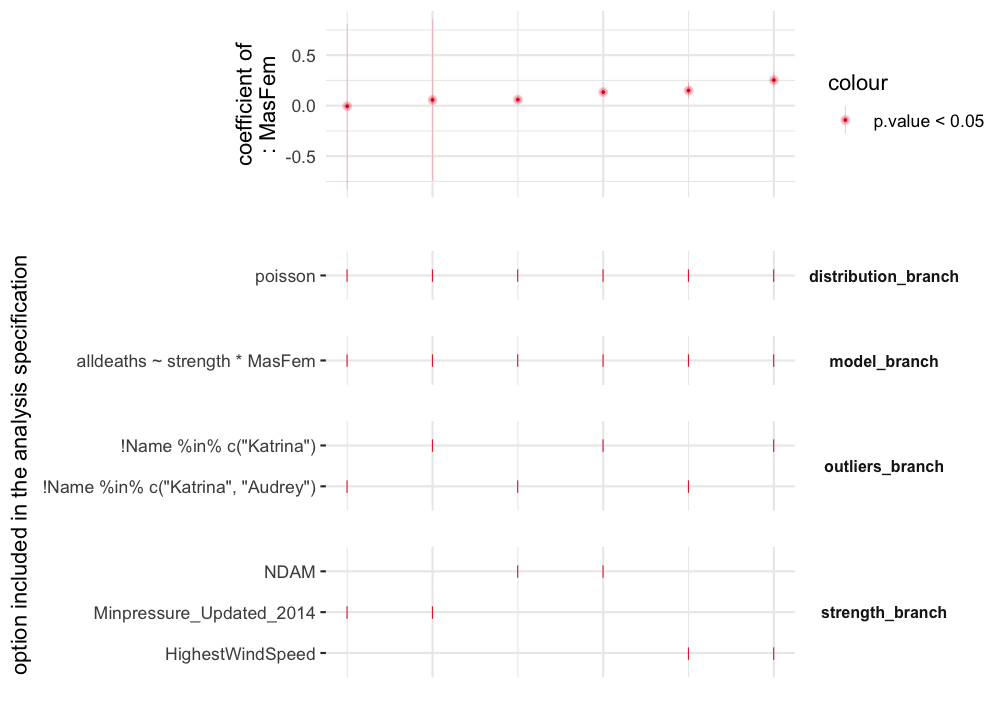
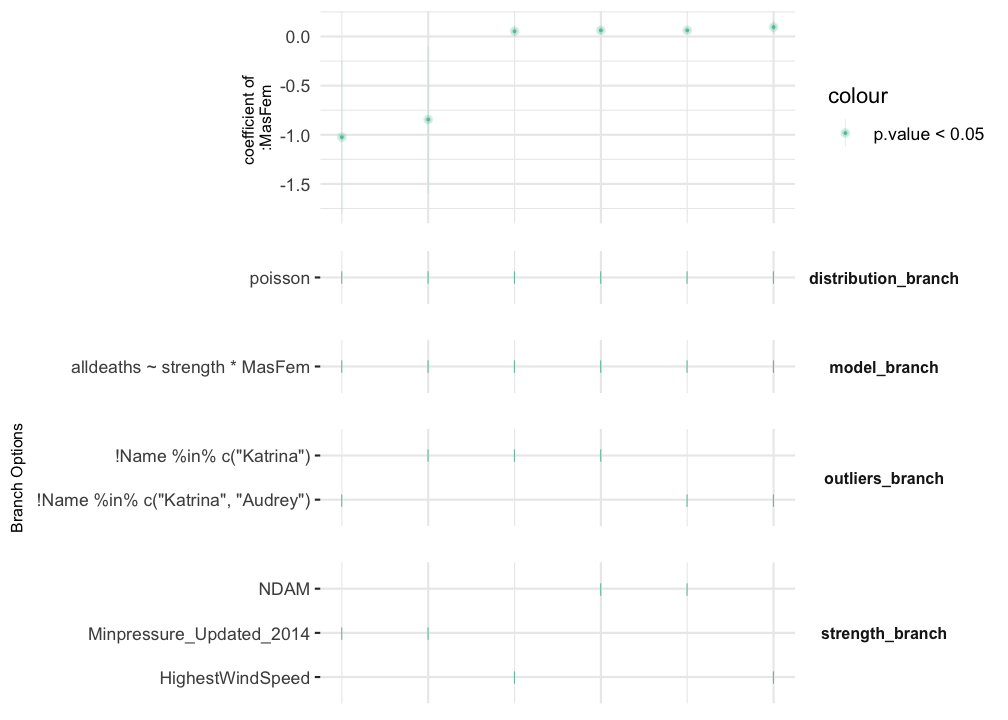
update readme, change default spec curve opacity

diff --git a/README.md b/README.md
@@ -6,8 +6,7 @@
 <!-- badges: start -->
 
 [![R-CMD-check](https://github.com/mverseanalysis/mverse/workflows/R-CMD-check/badge.svg)](https://github.com/mverseanalysis/mverse/actions)
-[![Codecov test
-coverage](https://codecov.io/gh/mverseanalysis/mverse/branch/master/graph/badge.svg)](https://app.codecov.io/gh/mverseanalysis/mverse?branch=master)
+<!-- [![Codecov test coverage](https://codecov.io/gh/mverseanalysis/mverse/branch/master/graph/badge.svg)](https://app.codecov.io/gh/mverseanalysis/mverse?branch=master) -->
 <!-- badges: end -->
 
 *mverse* is an extension to multiverse package (Sarma et al. 2021) which
@@ -34,15 +33,19 @@ devtools::install_github("mverseanalysis/mverse")
 
 The following demonstration performs a multiverse analysis using
 `hurricane` dataset (Jung et al. 2014) included in the library. We first
-create 6 universes as described in Figure
-<a href="#fig:tree"><strong>??</strong></a>. A filter *branch* with 2
+create 6 universes as described in Figure 1. A filter *branch* with 2
 *options* and a mutate *branch* with 3 *options* results in 6
 *universes* in total. We then fit a Poisson regression model across the
 multiverse and inspect a coefficient estimate. See
 `vignette("hurricane")` for a detailed analysis as well as the
 terminologies used.
 
-<img src="man/figures/README-tree-1.png" title="Having one branch with 2 options and another with 3 results in 2 x 3 = 6 universes in total." alt="Having one branch with 2 options and another with 3 results in 2 x 3 = 6 universes in total." width="100%" />
+<img src="man/figures/README-tree-1.png" width="100%" />
+
+<caption>
+Figure 1. Having one branch with 2 options and another with 3 results in
+2 x 3 = 6 universes in total.
+</caption>
 
 ### Initiate
 
@@ -150,12 +153,12 @@ res %>%
 #> # A tibble: 6 × 6
 #>   outliers_branch              strength_branch term  estimate conf.low conf.high
 #>   <fct>                        <fct>           <chr>    <dbl>    <dbl>     <dbl>
-#> 1 "!Name %in% c(\"Katrina\")"  NDAM            MasF…  0.134     0.112     0.157 
-#> 2 "!Name %in% c(\"Katrina\")"  HighestWindSpe… MasF…  0.254     0.177     0.332 
-#> 3 "!Name %in% c(\"Katrina\")"  Minpressure_Up… MasF…  0.0575   -0.743     0.854 
-#> 4 "!Name %in% c(\"Katrina\", … NDAM            MasF…  0.0600    0.0366    0.0839
-#> 5 "!Name %in% c(\"Katrina\", … HighestWindSpe… MasF…  0.151     0.0717    0.231 
-#> 6 "!Name %in% c(\"Katrina\", … Minpressure_Up… MasF… -0.00504  -0.825     0.811
+#> 1 "!Name %in% c(\"Katrina\")"  NDAM            MasF…   0.0623  0.0427     0.0822
+#> 2 "!Name %in% c(\"Katrina\")"  HighestWindSpe… MasF…   0.0531 -0.00942    0.116 
+#> 3 "!Name %in% c(\"Katrina\")"  Minpressure_Up… MasF…  -0.845  -1.59      -0.103 
+#> 4 "!Name %in% c(\"Katrina\", … NDAM            MasF…   0.0623  0.0427     0.0822
+#> 5 "!Name %in% c(\"Katrina\", … HighestWindSpe… MasF…   0.0956  0.0301     0.161 
+#> 6 "!Name %in% c(\"Katrina\", … Minpressure_Up… MasF…  -1.02   -1.81      -0.247
 ```
 
 ### Plot a Specification Curve
